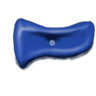
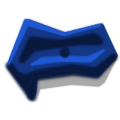
new handholds incorporated

diff --git a/MountSputnik/core/src/beigegang/mountsputnik/GameMode.java b/MountSputnik/core/src/beigegang/mountsputnik/GameMode.java
@@ -458,7 +458,7 @@ public class GameMode extends ModeController {
 		while(currentHeight < remainingHeight){
 			//TODO: account for difficulty
 			int blockNumber = ((int) (Math.random() * diffBlocks)) + 1;
-			blockNumber = 14;
+//			blockNumber = 7;
 			while(used.contains(blockNumber, true)&&!levelName.equals("tutorial"))
 				blockNumber = ((int) (Math.random() * diffBlocks)) + 1;
 			used.add(blockNumber);
